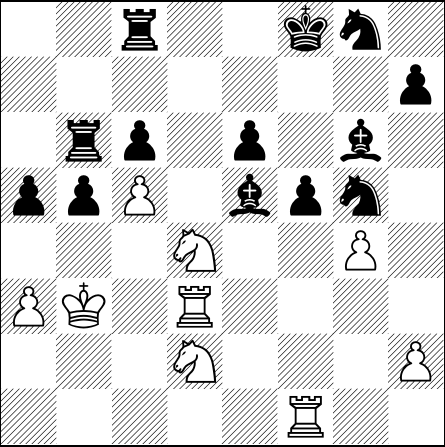
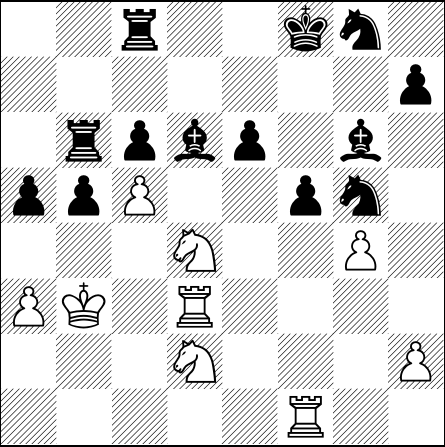
[automated] Regenerate text/pdf for chessboard

Changed region(s): [[0.3798, 0.2617, 0.4966, 0.3781], [0.4966, 0.3781, 0.6135, 0.4944]]

diff --git a/default_filepath.tex b/default_filepath.tex
@@ -13,6 +13,6 @@
 \normalsize%
 \setchessboard{showmover=false}%
 \newgame%
-\fenboard{2r2kn1/7p/1rp1p1b1/ppP1bpn1/3N2P1/PK1R4/3N3P/5R2 b - - 7 56}%
+\fenboard{2r2kn1/7p/1rpbp1b1/ppP2pn1/3N2P1/PK1R4/3N3P/5R2 w - - 8 57}%
 \chessboard%
 \end{document}
